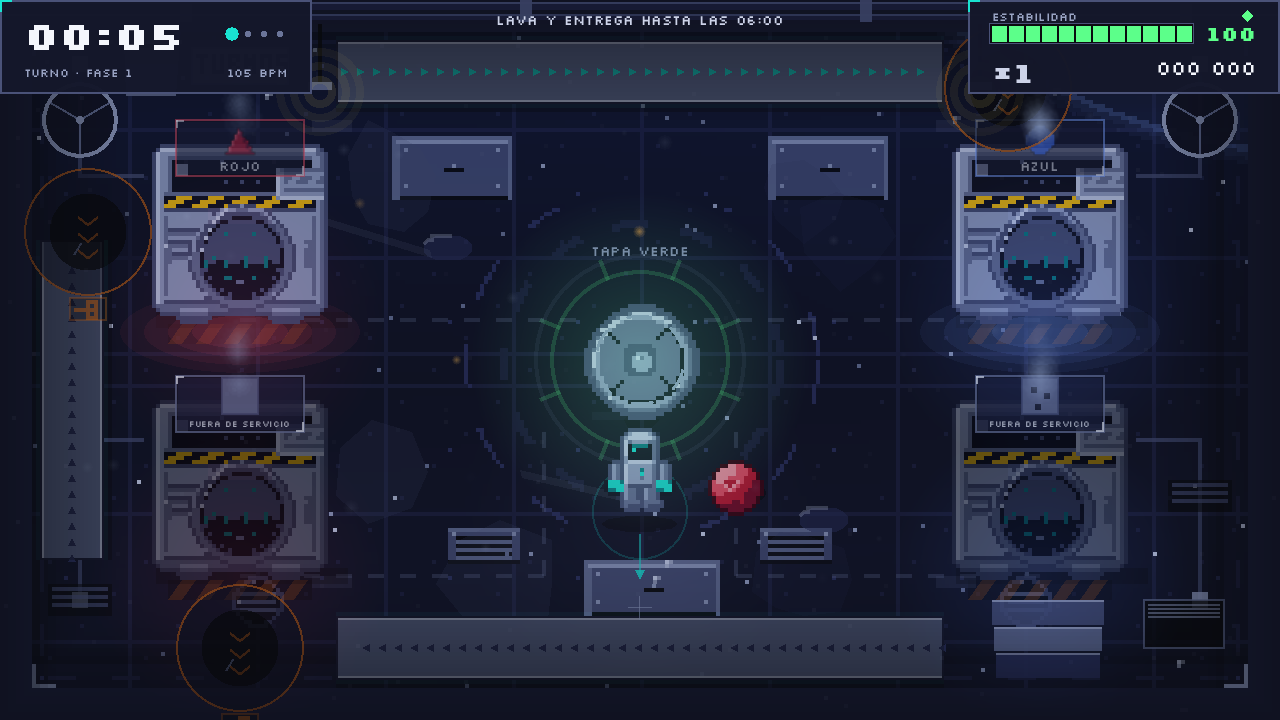
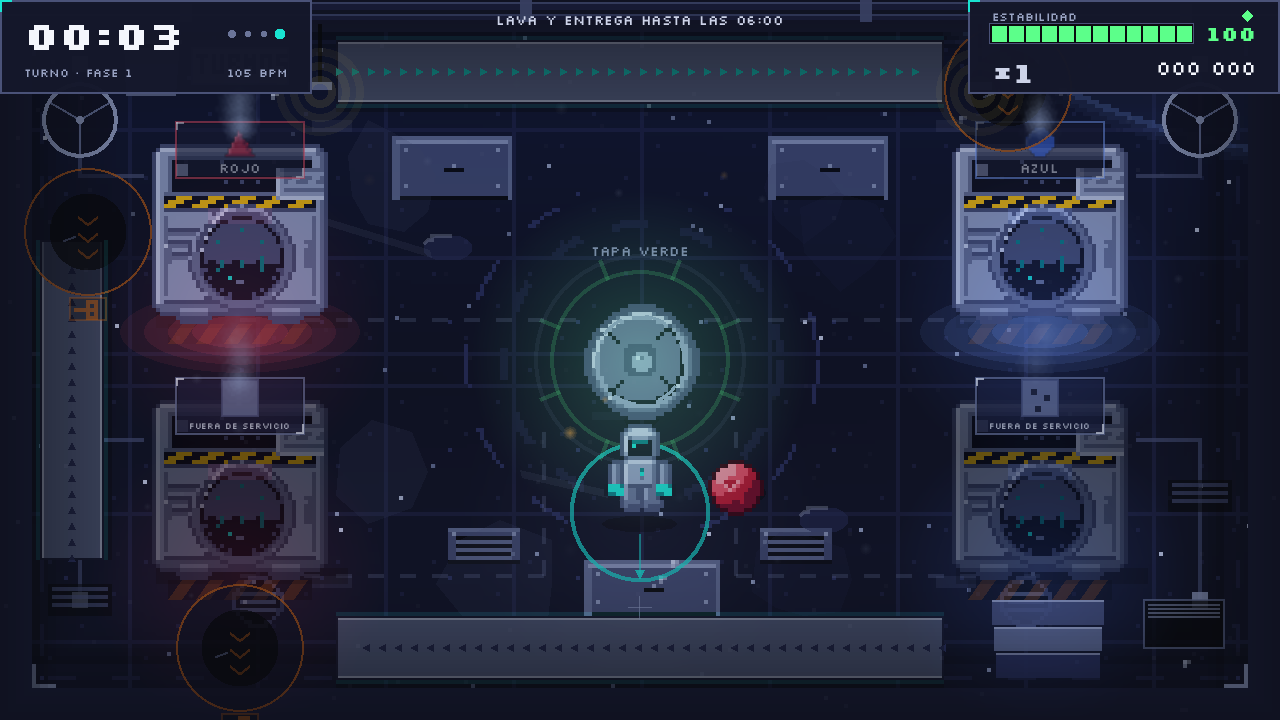
docs: record playtest #2 findings, audio contract and the new cadence

diff --git a/docs/DECISIONS.md b/docs/DECISIONS.md
@@ -260,3 +260,21 @@ assert the new numbers.
 3. The chute is now a funnel: a 110 px hatch plus a 240 px suction field pulls clean items
    in, and thrown items home for 0.55 s toward the nearest valid destination (washers or
    chute) so the player aims the machine, not a pixel.
+
+## D038 — Owner playtest #2: causal copy, silent-stem fix, friendly volumes
+2026-11-25 · Evidence and reasoning in `docs/UX_RESEARCH_ADDENDUM.md`. Changes:
+1. **Tutorial copy is causal** ("Muévete para alcanzar la ropa", "Golpea para lavar y calmar").
+   No riddle nouns; every prompt names the object it affects and its purpose. Gates 3 and 6
+   now stage the machine they talk about, so the sentence is literally true.
+2. **Music was silent from the first frame.** `AudioStreamPlayer.stream` stops playback when
+   assigned (engine contract), and phase setup re-assigned the stream after `start()`.
+   `BeatConductor.set_stream()` now restarts a live player. A headless check asserts
+   `playing=true` after `LEVEL_READY`.
+3. **Friendly volumes never push bodies.** The chute no longer bounces dirty items; it shows
+   `LAVA PRIMERO`. Washers reject `clean` items (`REJECT_CLEAN`), which stops a washed item
+   ejected from an upper machine being re-inserted into the lower one.
+4. **Strike feedback:** a 160 ms cyan arc, a pitched whoosh (hit vs whiff), the same graded
+   action, and a tutorial gate that explains the verb's two uses.
+5. **Cadence:** 7/6/5 s (83 spawns/shift) after the owner asked for more pressure; the E2E
+   bot remains the gate that proves it stays survivable.
+6. **Conveyor audio:** a −24 dB belt hum loop plus a pitched-down arrival click on each spawn.

diff --git a/docs/PROGRESS.md b/docs/PROGRESS.md
@@ -84,7 +84,8 @@ Updated after every milestone/workstream. Times are local (America/Bogota).
 | Sprite contract | 29/29 sheets, 176 frames, 22 colour-budget warnings | `tools/lint_sprites.py` |
 | Audio contract | 16/16 checks (BPM drift ≤0.01 ms, peaks −1.3…−2.2 dBFS, Spanish glyphs) | `tools/verify_audio.py` |
 | Spawns / 480 s | 66 (11/18/24/13), seed 1234 | `tools/sim_run.gd` |
-| E2E playtest bot | 6 washes, 4 deliveries, 0 losses, 100 % throws, stability 94 (93 s) | `tools/playtest_bot.gd` |
+| E2E playtest bot | 4 washes, 2 deliveries, 0 losses, 100 % throws, stability 94 (47 s gate) | `tools/playtest_bot.gd` |
+| Spawns / 480 s (v2) | 83 (17/24/29/13) after the second owner playtest | `tools/sim_run.gd` |
 | Belt reversal | warnings 60/124/188, flips 64/128/192 (130 BPM) | `test_belt_reversal*` |
 | Physics | 0.544 ms/tick for 40 bodies | `docs/M2_PHYSICS.md` |
 | Reported PulseAudio latency | 52.84 ms (headless Dummy = 0) | `docs/CALIBRATION.md` |
